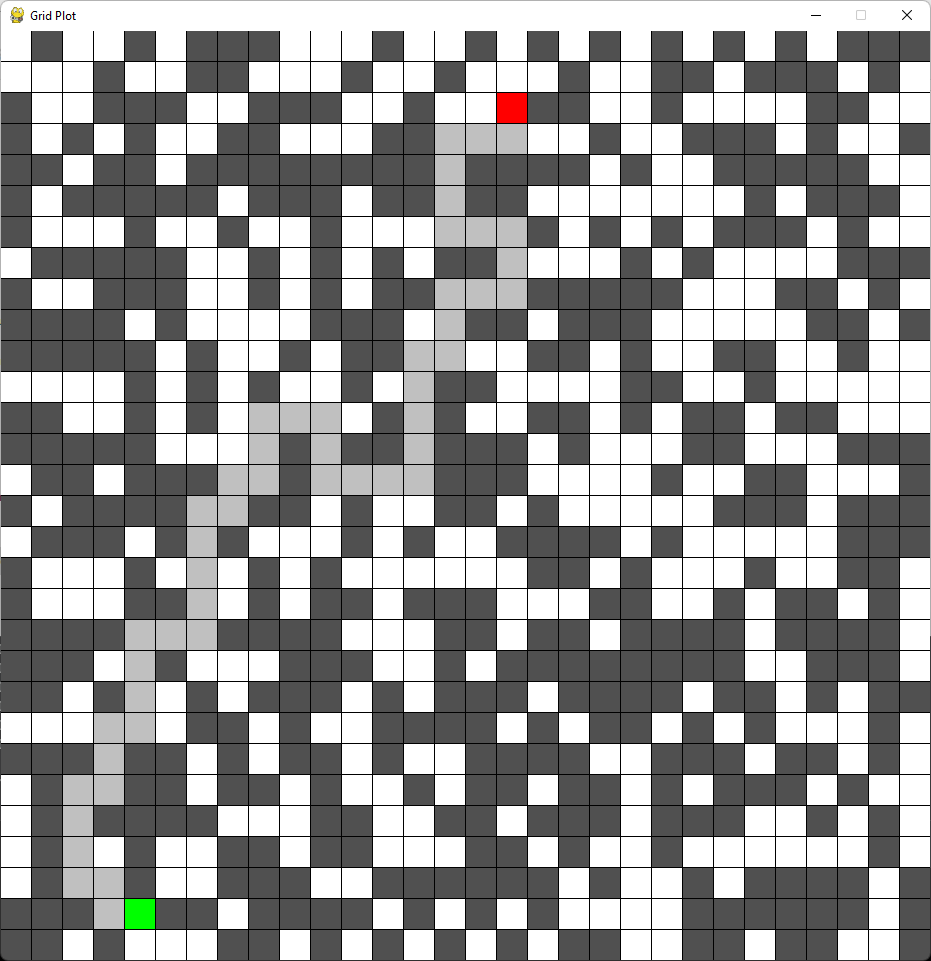
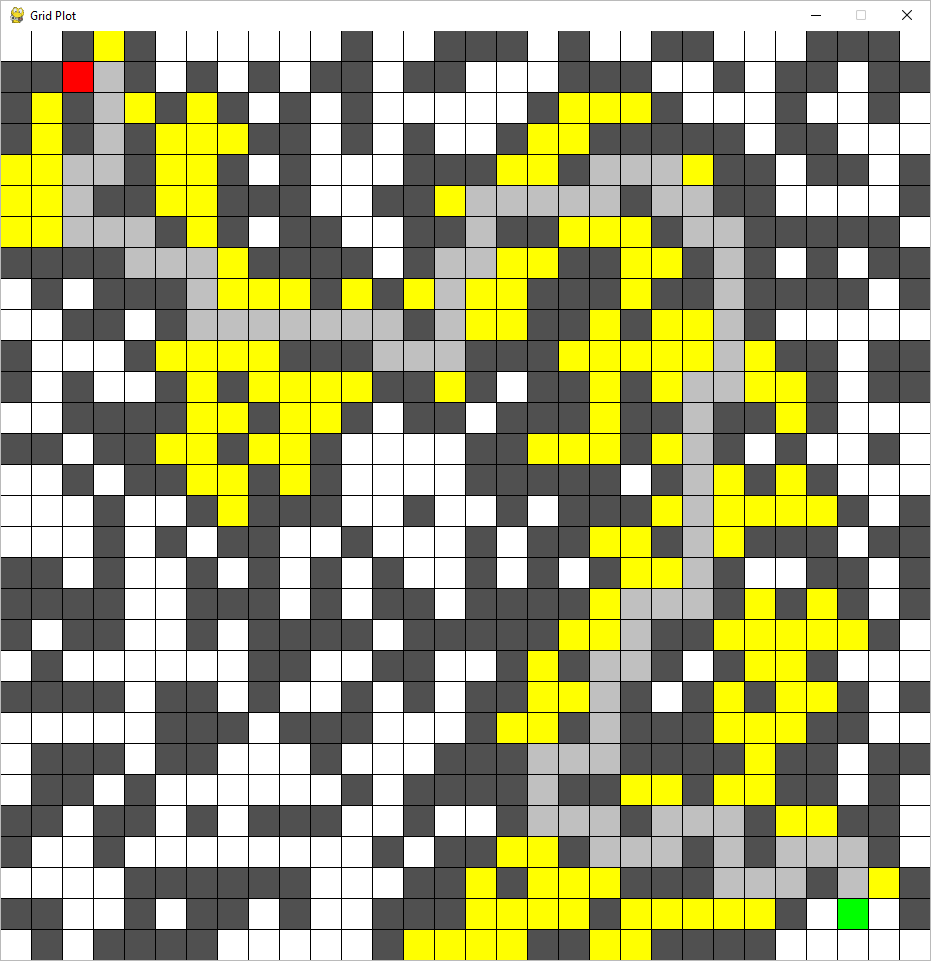
Enable expansion plotting by default

diff --git a/grid.py b/grid.py
@@ -7,8 +7,8 @@ class Grid:
   GRID_IND_OBSTACLE = -1
   GRID_IND_STARTING_CELL = 1
   GRID_IND_DESTINATION_CELL = 2
-  GRID_IND_PATH = 3
-  GRID_IND_EXPANSION = 4
+  GRID_IND_EXPANSION = 3
+  GRID_IND_PATH = 4
 
   def __init__(self, rows, columns, obstacle_percentage, 
                start_cell, dest_cell):

diff --git a/grassfire.py b/grassfire.py
@@ -2,7 +2,7 @@ from collections import deque
 from grid import Grid
 
 class Grassfire:
-  def __init__(self, matrix, plot_expansion = False):
+  def __init__(self, matrix, plot_expansion = True):
     '''
     Initializes the Grassfire class.
 

diff --git a/README.md b/README.md
@@ -23,38 +23,42 @@ Simply run `main.py` in a terminal to start the program and provide parameters v
 
 The terminal outputs a matrix like:
 ```
-[[ 0 -1  0  0 -1  0 -1  0]
- [ 0  1  3  0  0  0  0  0]
- [-1 -1  3 -1  0  0 -1  0]
- [ 0 -1  3  3  0  0  0 -1]
- [ 0  0 -1  3 -1  0  0  0]
- [-1  0  0  3  3  3  0  0]
- [ 0 -1  0 -1 -1  2  0  0]
- [ 0  0  0 -1  0  0  0  0]]
+[[ 0 -1  3 -1 -1 -1 -1  0 -1  0]
+ [-1  3  1 -1 -1  3  3 -1  0  0]
+ [ 3 -1  4  3  3  3 -1  0  0 -1]
+ [ 3  3  4  4  3  3  3 -1  0 -1]
+ [ 3  3 -1  4  4  4 -1  0  0  0]
+ [-1  3 -1  3 -1  4 -1 -1 -1  0]
+ [ 3  3  3  3 -1  4  4 -1  0 -1]
+ [-1 -1  3 -1 -1 -1  4  3 -1  0]
+ [ 0 -1  3 -1  0  2  4 -1  0  0]
+ [-1 -1  3  3 -1  3  3  3  0 -1]]
  ```
 Where the numbers in the matrix are represented as:
 * Obstacle (-1)
 * Default fill (0)
 * Starting cell (1)
 * Destination cell (2)
-* Path from the starting cell to destination cell (3)
+* Visited cell (3)
+* Path from the starting cell to destination cell (4)
  
 ### Pygame GUI
 The generated matrix is passed down to the Pygame module `grid_gui` and the GUI is automatically built based on the received information. Below is an image of the GUI that is generated from the matrix output above.
 
-![grid](/images/grid.png)
+![gui](/images/grid_expansion_plot.png)
 
-Pygame GUI Color Legend:
+Pygame GUI color legend:
 * ![#ff0000](https://placehold.co/15x15/ff0000/ff0000.svg) Starting cell
 * ![#00ff00](https://placehold.co/15x15/00ff00/00ff00.svg) Destination cell
 * ![#505050](https://placehold.co/15x15/505050/505050.svg) Obstacle
+* ![#ffff00](https://placehold.co/15x15/ffff00/ffff00.svg) Visited cell
 * ![#c0c0c0](https://placehold.co/15x15/c0c0c0/c0c0c0.svg) Path from the starting cell to destination cell
 
 ### Customization
 * You can modify `main.py` to comment out the line that invokes `Grid.init_from_user_input()` and manually construct the parameters of the `Grid` class if you wish to run a pre-set grid without having to input parameters into the terminal every time the program is run.
     * Example: `grid = Grid(8, 8, 20, (1, 1), (6, 5))`<br>The above will create a matrix of 8 rows and 8 columns, an obstacle concentration of 20%, a starting cell at the 2nd row and 2nd column, and a destination cell at the 7th row and 6th column.
 
-* You can modify `main.py` to enable the plotting of cells the algorithm had visited while searching for the destination cell. This can be done by setting the boolean `plot_expansion` parameter of the `Grassfire` class constructor. If this option is enabled, the value of the matrix element that corresponds to the visited cell will be set to `4` instead of the default `0`. The Pygame GUI will also colorize visited cells in yellow.
+* You can modify `main.py` to disable the plotting of cells the algorithm had visited while searching for the destination cell (yellow-colored). This can be done by setting the boolean `plot_expansion` parameter of the `Grassfire` class constructor to `False`. If this option is disabled, the value of the matrix element that corresponds to the visited cell will not be changed from the default value of `0`.
 
 Legal
 -----
